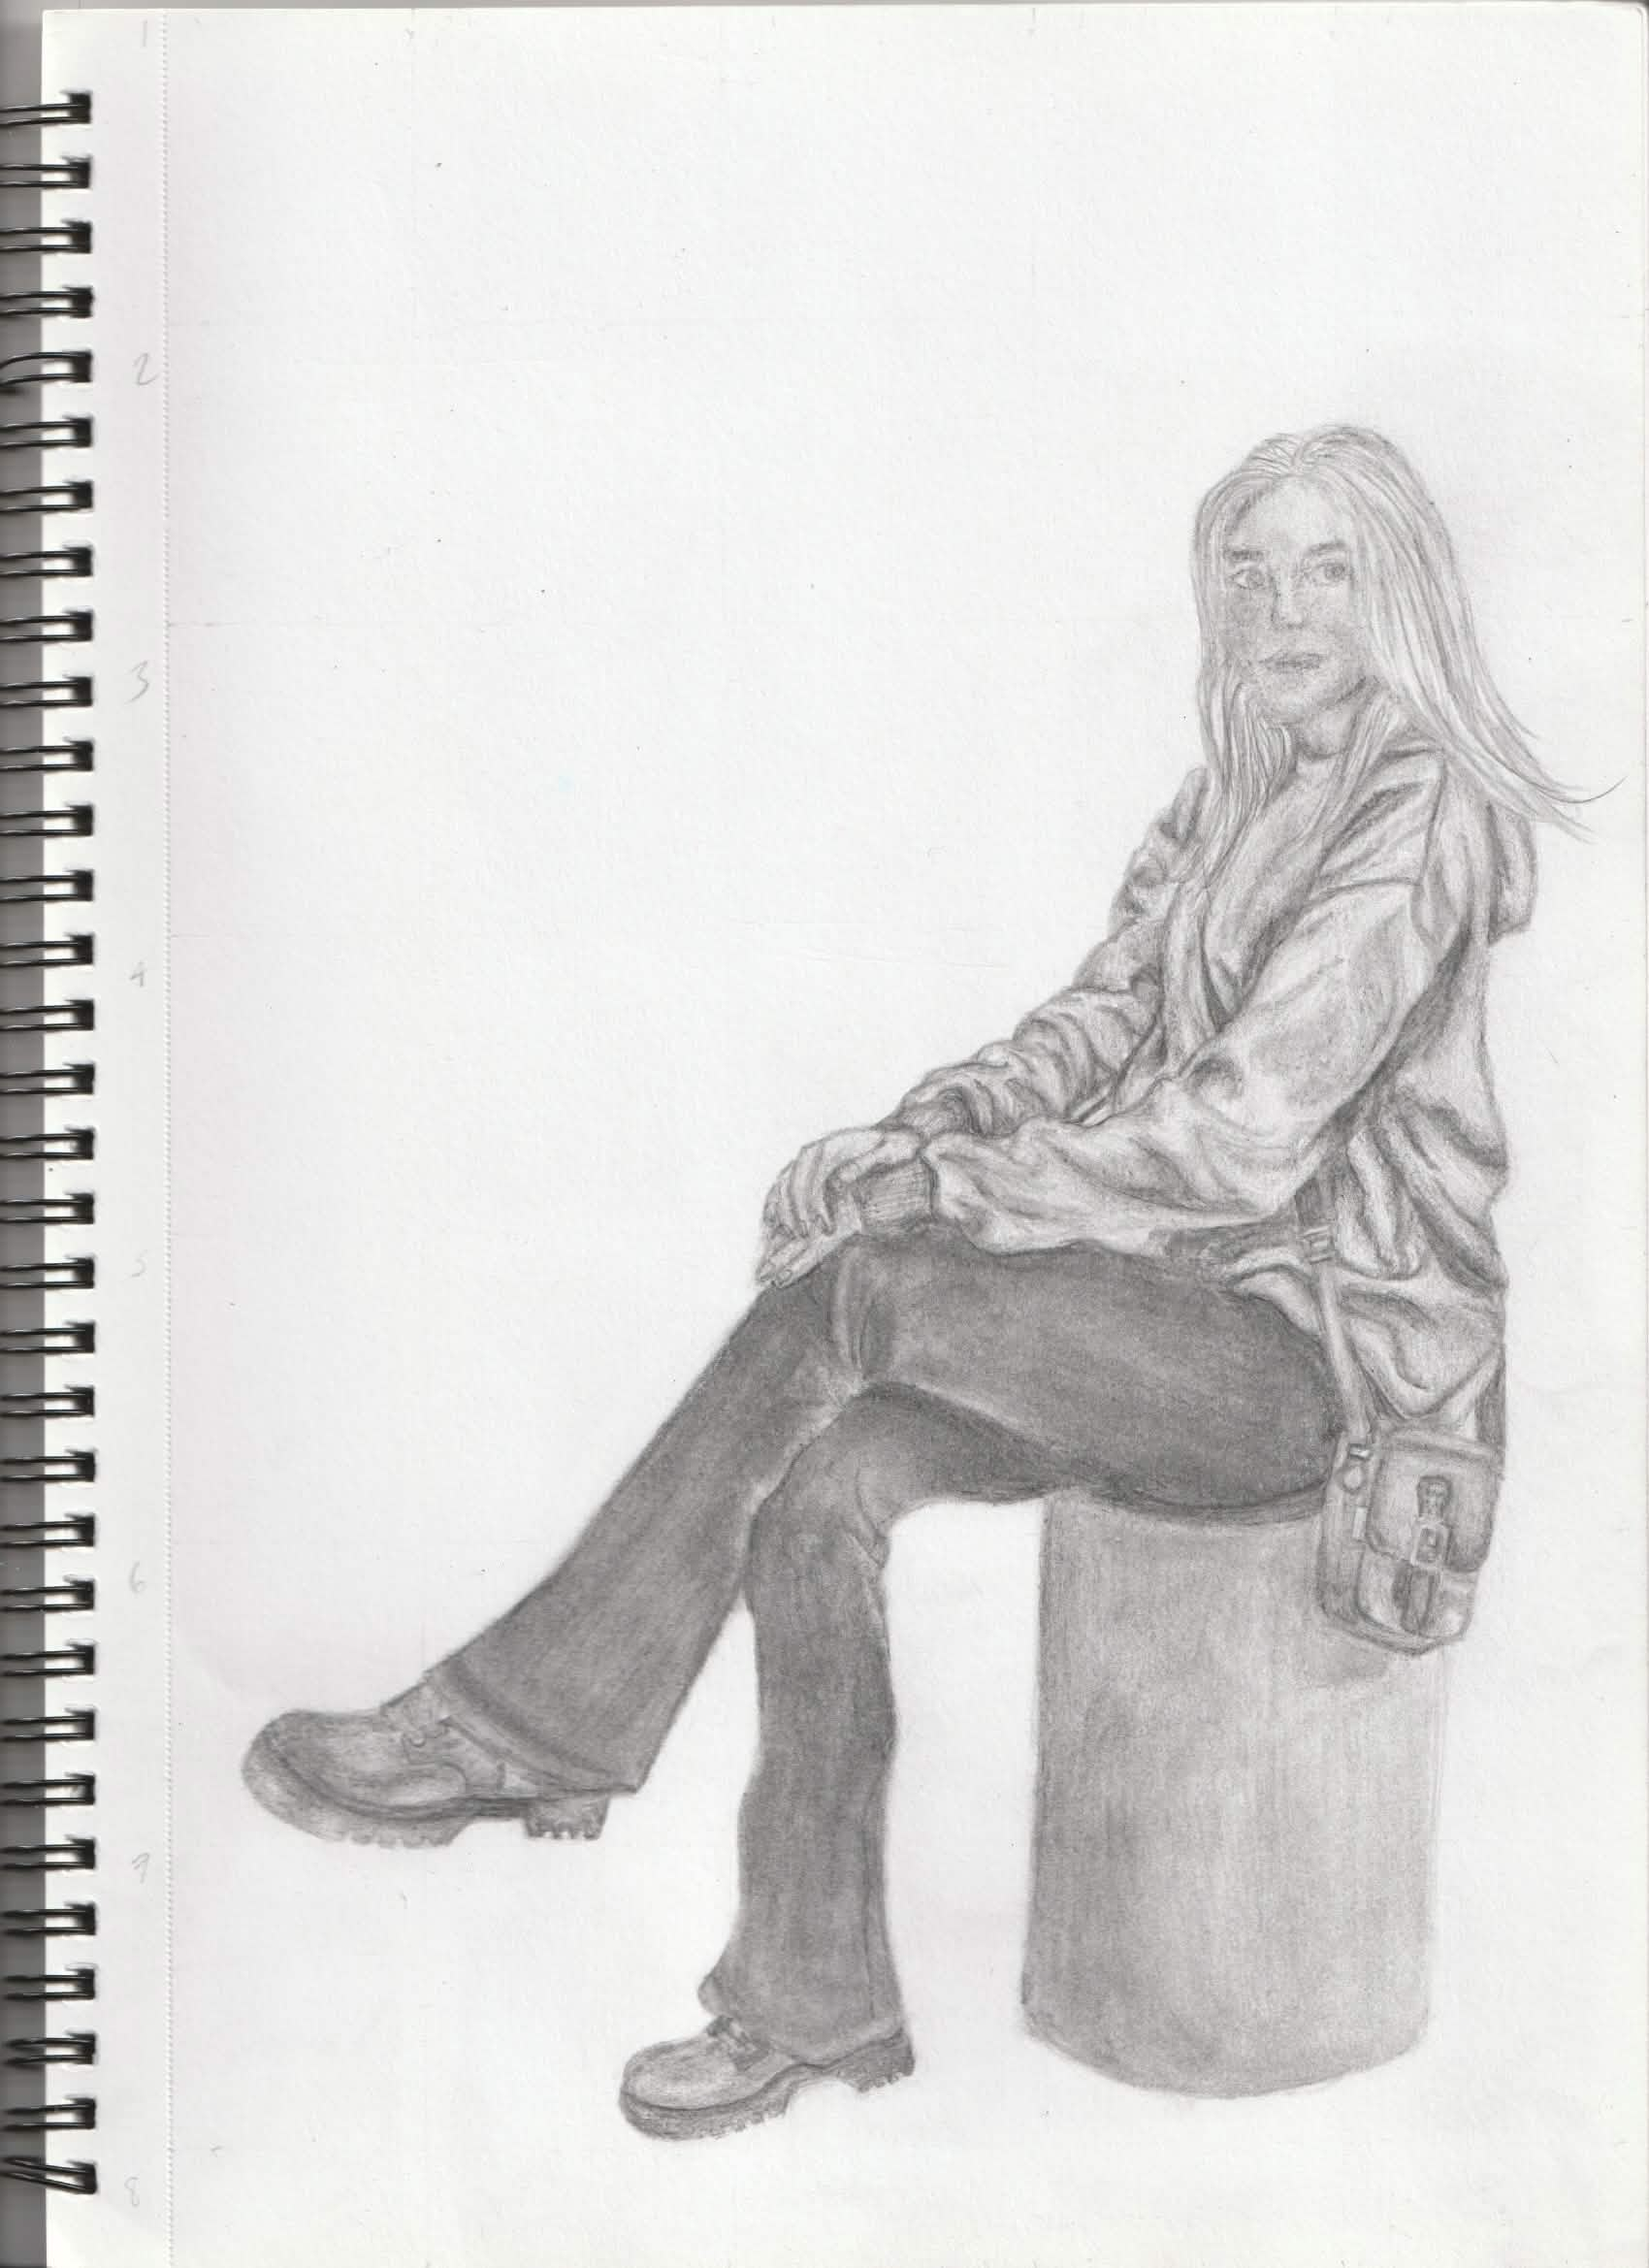
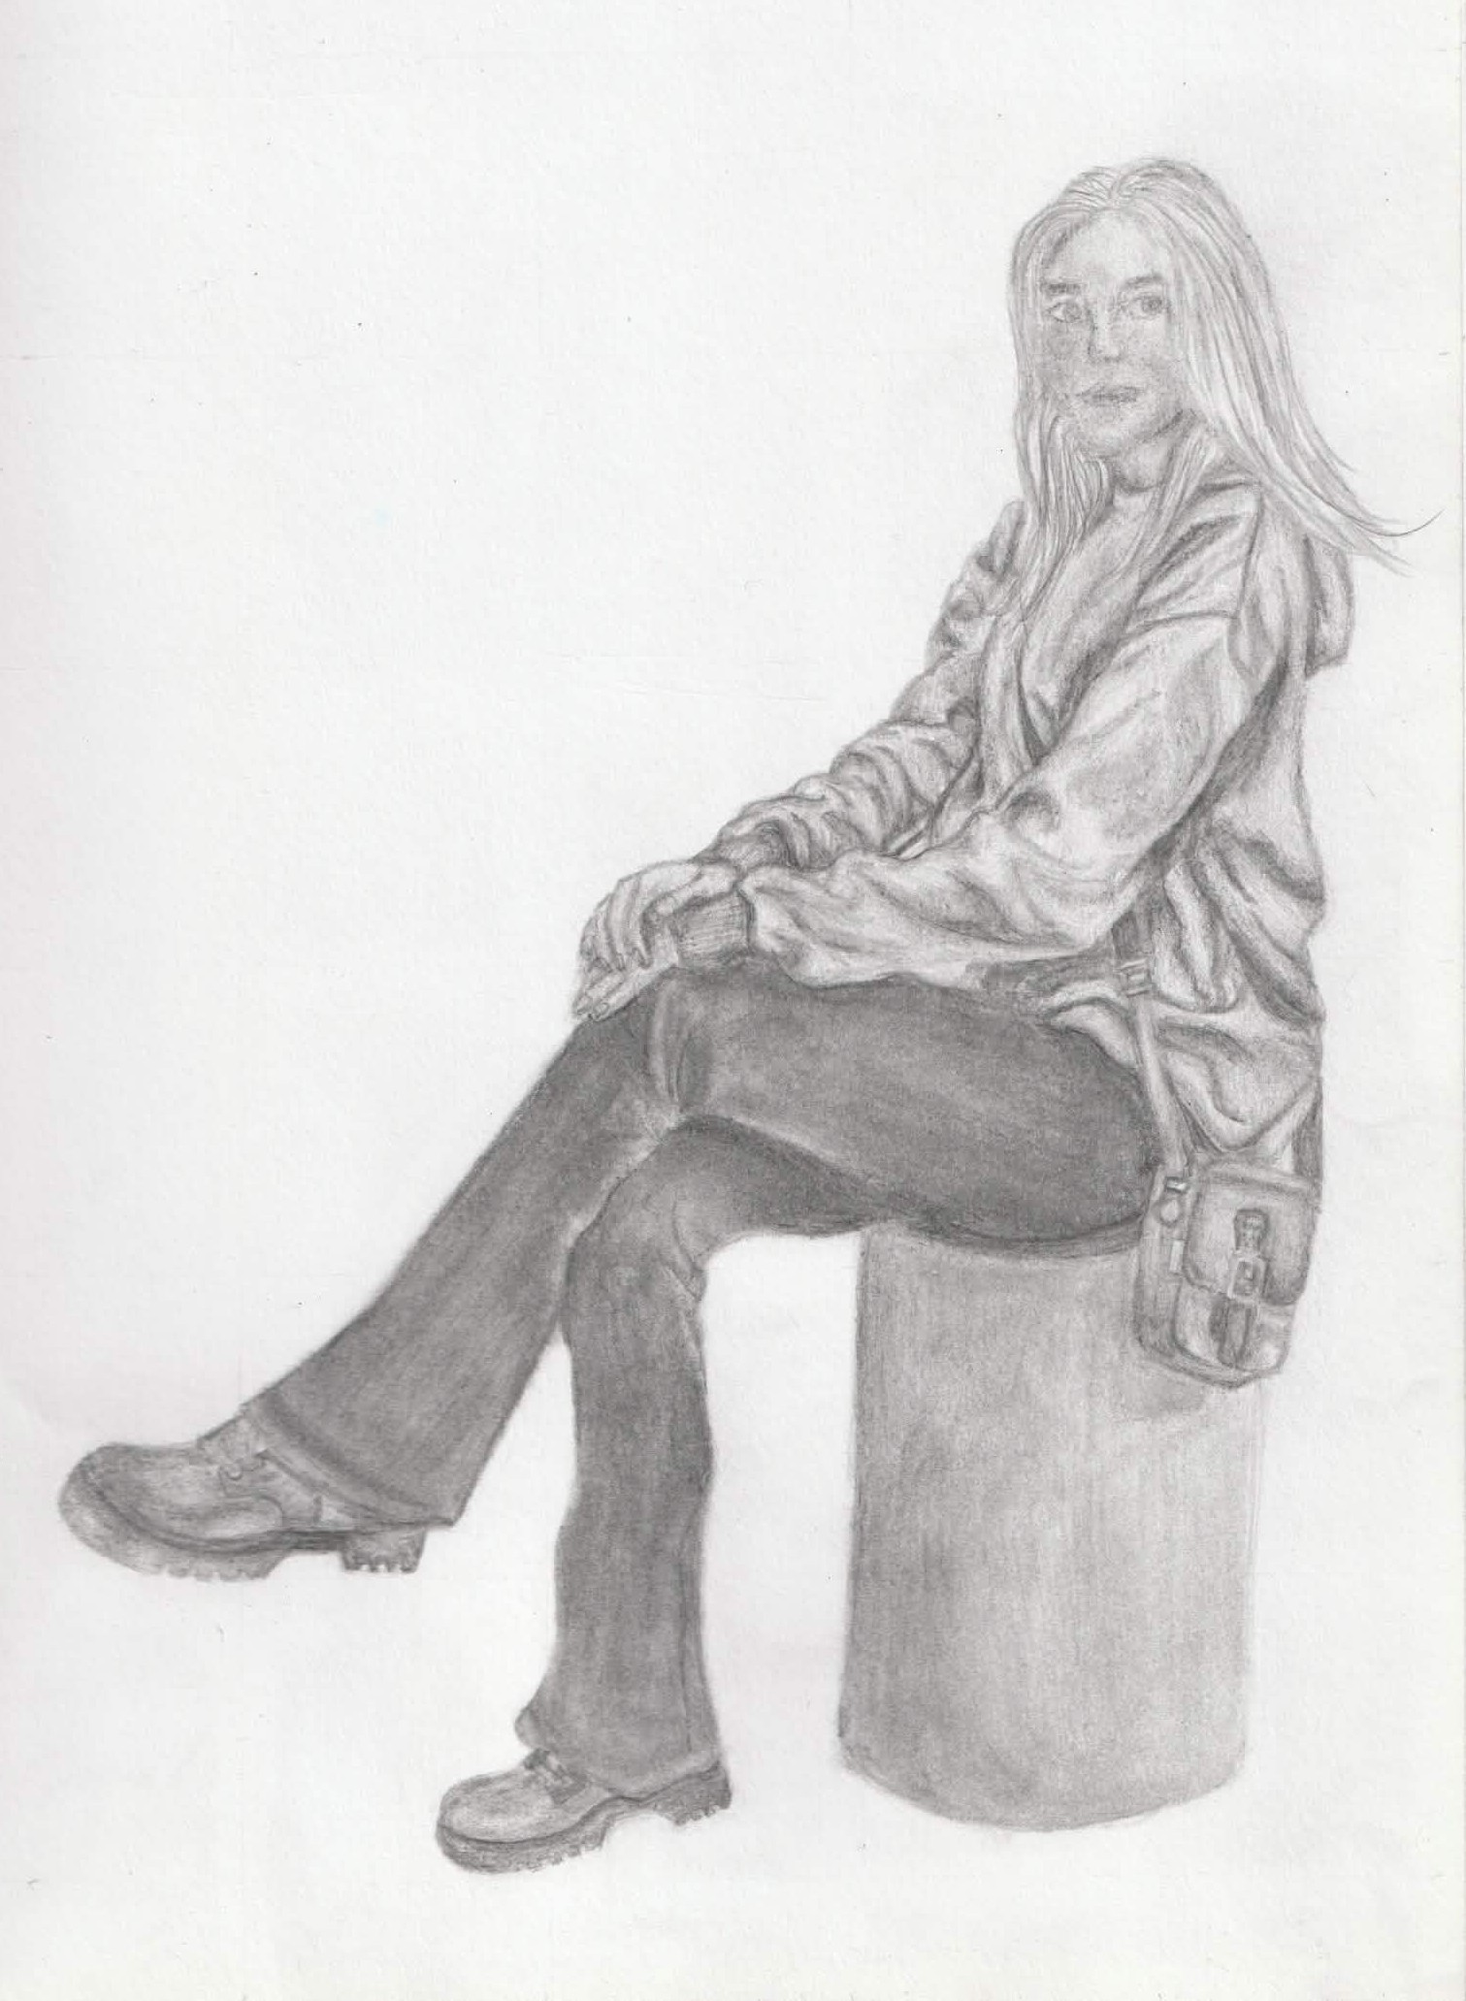
traditional art, digital art, atla extra

Changed region(s): [[0.0, 0.0, 0.9643, 1.0], [0.9954, 0.0, 1.0, 0.031]]

diff --git a/js/main.js b/js/main.js
@@ -343,6 +343,20 @@ document.addEventListener("click", function (e) {
             '<source src="videos/Making%20Of%20Showreel_ATLA%202.webm" type="video/webm">' +
             "</video></div>",
         },
+        {
+          heading: "Concept Art",
+          red: true,
+          html: '<div class="breakdown__blueframes">' + phRow(3) + "</div>",
+        },
+        {
+          heading: "Watercolour",
+          html: phRow(3),
+        },
+        {
+          heading: "Test Animations",
+          red: true,
+          html: '<div class="breakdown__blueframes">' + phRow(3) + "</div>",
+        },
       ],
     },
     pointblank: {
@@ -600,8 +614,9 @@ document.addEventListener("click", function (e) {
         {
           heading: "Animals",
           html:
-            '<div class="breakdown__solo">' +
-            frameCell("monkey.jpg", "Crocheted monkey") +
+            '<div class="breakdown__row breakdown__row--fit">' +
+            frameCell("monkey.jpg", "Crocheted monkey", "r75") +
+            frameCell("turtle zoom.jpg", "Crocheted turtle", "r133") +
             "</div>",
         },
       ],
@@ -684,8 +699,28 @@ document.addEventListener("click", function (e) {
       animation: false,
       note: null,
       sections: [
-        { heading: "Graphite Drawings", html: phRow(3) },
-        { heading: "Watercolours", html: phRow(2, "landscape") },
+        {
+          heading: "Graphite Drawings",
+          html:
+            "<div data-lightbox-group>" +
+            '<div class="breakdown__row breakdown__row--level">' +
+            frameCell("sketchbook.jpg", "Sketchbook") +
+            frameCell("moose.JPEG", "Moose") +
+            frameCell("skull.jpg", "Skull") +
+            "</div>" +
+            '<div class="breakdown__row breakdown__row--level breakdown__row--level-lg">' +
+            frameCell("scream.JPEG", "Scream") +
+            frameCell("bird.JPEG", "Bird") +
+            "</div>" +
+            "</div>",
+        },
+        {
+          heading: "Watercolours",
+          html:
+            '<div class="breakdown__row">' +
+            frameCell("watercolour.jpg", "Watercolour") +
+            "</div>",
+        },
       ],
     },
   };
@@ -901,7 +936,13 @@ document.addEventListener("click", function (e) {
   function openFrom(el, type) {
     var scopeSel = type === "video" ? ".breakdown__gifs" : ".breakdown__row, .breakdown__grid, .carousel__track";
     var selector = type === "video" ? ".breakdown__gif video" : ".breakdown__frame img";
-    var scope = el.closest(scopeSel) || el.closest(".breakdown__body") || document;
+    // An explicit group wins over the individual row, so a set split across
+    // two rows still pages through as one sequence.
+    var scope =
+      el.closest("[data-lightbox-group]") ||
+      el.closest(scopeSel) ||
+      el.closest(".breakdown__body") ||
+      document;
     var els = Array.prototype.slice.call(scope.querySelectorAll(selector));
     group = els.map(function (n) {
       var caption = "";

diff --git a/css/style.css b/css/style.css
@@ -942,6 +942,10 @@ body {
   flex-grow: 82;
 }
 
+.breakdown__row--fit .r133 {
+  flex-grow: 133;
+}
+
 .breakdown__row--fit .r141 {
   flex-grow: 141;
 }
@@ -972,21 +976,54 @@ body {
   max-width: none;
 }
 
+/* A taller variant, for rows with only a couple of images to fill the width */
+.breakdown__row--level-lg {
+  height: 360px;
+}
+
+/* In between — pairs with a wider row to fill */
+.breakdown__row--level-md {
+  height: 275px;
+}
+
+/* Lets a row use the panel's side padding, for a bit more room */
+.breakdown__row--wide {
+  margin-left: -3rem;
+  margin-right: -3rem;
+}
+
 @media (max-width: 1000px) {
-  .breakdown__row--level {
+  /* the panel loses its side padding here, so the wide row goes back inline */
+  .breakdown__row--wide {
+    margin-left: 0;
+    margin-right: 0;
+  }
+  .breakdown__row--level,
+  .breakdown__row--level-md {
     height: 200px;
+  }
+  .breakdown__row--level-lg {
+    height: 300px;
   }
 }
 
 @media (max-width: 700px) {
-  .breakdown__row--level {
+  .breakdown__row--level,
+  .breakdown__row--level-md {
     height: 150px;
+  }
+  .breakdown__row--level-lg {
+    height: 210px;
   }
 }
 
 @media (max-width: 480px) {
-  .breakdown__row--level {
+  .breakdown__row--level,
+  .breakdown__row--level-md {
     height: 110px;
+  }
+  .breakdown__row--level-lg {
+    height: 150px;
   }
 }
 

diff --git a/index.html b/index.html
@@ -113,13 +113,13 @@
           </span>
         </button>
         <button class="project-card" data-project="digitalart" data-title="Digital Art">
-          <span class="project-card__media"></span>
+          <span class="project-card__media" style="background-image: url('images/dystopian%20ref%20cover.png')"></span>
           <span class="project-card__caption">
             <span class="project-card__title">Digital Art</span>
           </span>
         </button>
         <button class="project-card" data-project="traditionalart" data-title="Traditional Art">
-          <span class="project-card__media"></span>
+          <span class="project-card__media" style="background-image: url('images/watercolour.jpg')"></span>
           <span class="project-card__caption">
             <span class="project-card__title">Traditional Art</span>
           </span>
